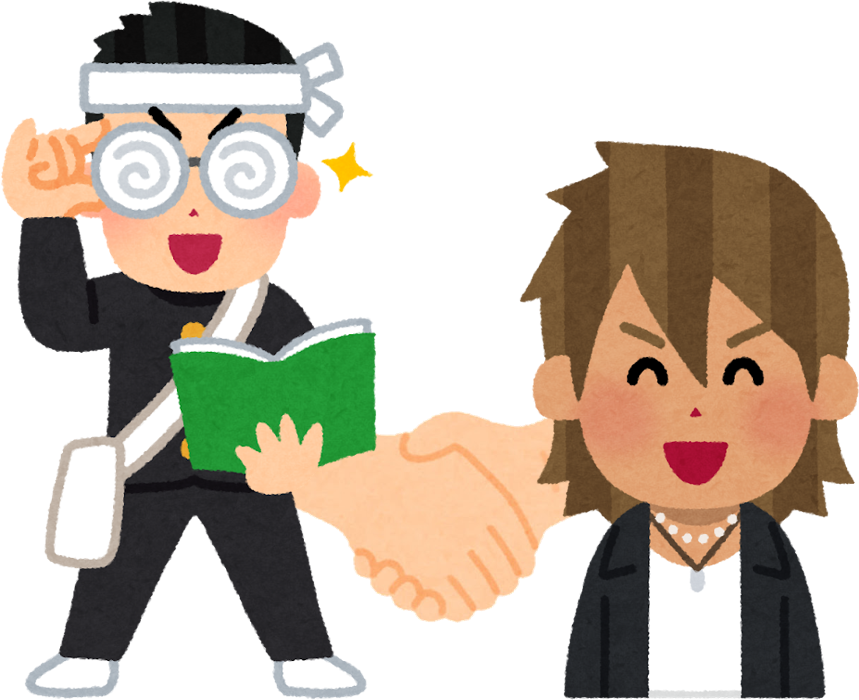
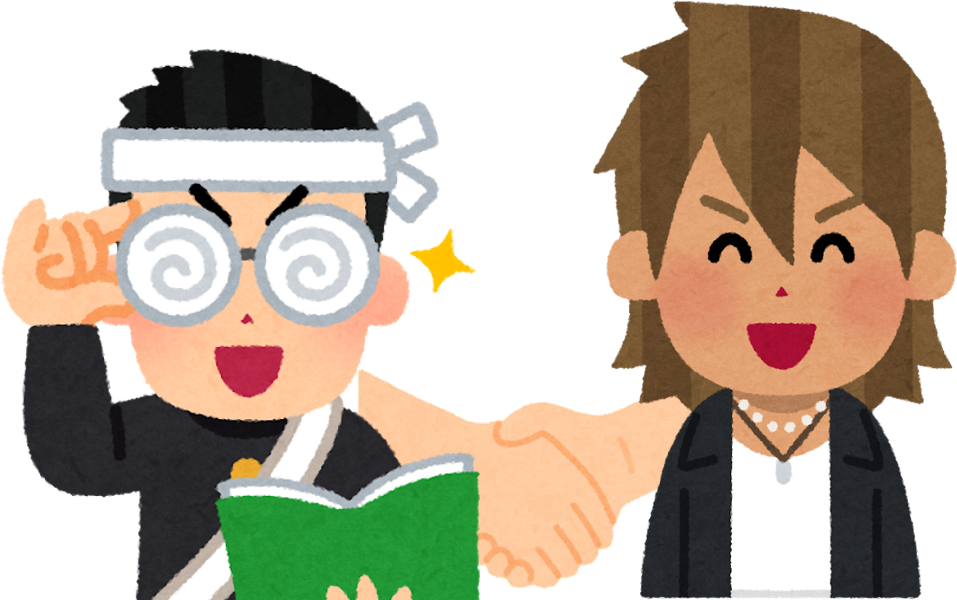
Happy Low-Code 10/26 資料：真面目くんを上半身にそろえる

diff --git a/talks/2026-10-26-happy-lowcode/index.html b/talks/2026-10-26-happy-lowcode/index.html
@@ -569,7 +569,7 @@
   <div class="meta">Happy Low-Code / Haru</div>
   <div class="pageno"></div>
 <div class="topright"><span class="side pad"><img src="assets/powerautomate.png" alt="">いまの話：PAD</span></div>
-<img class="mascot" src="assets/irasutoya/study_gariben_boy.png" alt="">
+<img class="mascot" src="assets/irasutoya/gariben_upper.png" alt="">
 <div class="nextbar">次へ ▶ <b>Computer use とは：AI が画面を見て、操作する</b></div>
 </section>
 <section class="slide withmascot" data-title="Computer use とは" data-note="<b>8:00</b> Computer use は、Copilot Studio のエージェントが使う道具の1つ。やりたいことを文章で頼むと、AI が画面を見て、その場でどこを押すかを考えて、クリックや入力をする。押す場所は指定しない。画面が変わっても、見て判断し直す。そのかわり、1手ごとに Copilot クレジットがかかる。標準のモデルで1手5クレジット。">
@@ -594,7 +594,7 @@
   <div style="font-size:2cqw;color:#9aa3b2;font-weight:800;margin-top:1cqh;position:relative;z-index:1">同じ仕事ができる2つ。でも性格はまったく違う。人にたとえると……</div>
   <div style="display:grid;grid-template-columns:1fr 6cqw 1fr;align-items:center;margin-top:2cqh;position:relative;z-index:1">
     <div style="display:flex;flex-direction:column;align-items:center;text-align:center">
-      <img src="assets/irasutoya/study_gariben_boy.png" alt="" style="height:44cqh;object-fit:contain">
+      <img src="assets/irasutoya/gariben_upper.png" alt="" style="height:44cqh;object-fit:contain">
       <div style="margin-top:1.6cqh;font-size:4.4cqw;font-weight:900;color:#4da3ff;letter-spacing:-.02em">PAD</div>
       <div style="font-size:2.3cqw;font-weight:800;color:#ffd23f;margin:.6cqh 0 1.2cqh">真面目すぎる人</div>
       <div style="font-size:2.3cqw;font-weight:800;color:#fff;line-height:1.5">決めた手順以外は、やらない</div><div style="font-size:2.3cqw;font-weight:800;color:#fff;line-height:1.5">1つでもズレたら、そこで止まる</div>
@@ -662,7 +662,7 @@
   <div class="meta">Happy Low-Code / Haru</div>
   <div class="pageno"></div>
 <div class="topright"><span class="demo" style="background:#e8891c">▶ デモ<span style="font-size:1.5cqw;font-weight:700">PAD を実行</span></span><span class="side pad"><img src="assets/powerautomate.png" alt="">いまの話：PAD</span></div>
-<img class="mascot" src="assets/irasutoya/study_gariben_boy.png" alt="">
+<img class="mascot" src="assets/irasutoya/gariben_upper.png" alt="">
 <div class="nextbar">次へ ▶ <b>Computer use：やりたいことを文章1つで頼む</b></div>
 </section>
 <section data-ch="1" data-sub="0" class="slide withmascot" data-title="Computer use：やりたいことを文章で頼む" data-note="<b>12:45</b> Computer use では、手順の欄にこの1文を書いただけ。部品の指定はしていない。どこを押すかは、AI が実行のときに画面を見て決める。動かす場所は、用意された仮想 PC の中のブラウザー。モデルは Claude Sonnet 4.5。">
@@ -971,7 +971,7 @@
   <div class="meta">Happy Low-Code / Haru</div>
   <div class="pageno"></div>
 <div class="topright"><span class="side pad"><img src="assets/powerautomate.png" alt="">いまの話：PAD</span></div>
-<img class="mascot" src="assets/irasutoya/study_gariben_boy.png" alt="">
+<img class="mascot" src="assets/irasutoya/gariben_upper.png" alt="">
 <div class="nextbar">次へ ▶ <b>師匠の Excel 表で、AI のつまずきは防げていた</b></div>
 </section>
 <section data-ch="4" data-sub="0" class="slide withmascot" data-title="師匠の Excel 表で、AI のつまずきは防げていた" data-note="<b>32:45</b> 師匠に言われたとおり、今日の作業を Excel に書くとこうなる。1行が1操作、クリック1つまで。入力する文字は PowerAutomate45 で、変えない。検索したら、開催前だけの2件が出ているかを確かめる。0件なら、ここで止める。日付を読んだら、PA45 の回かを確かめる。色を付けた4か所は、今日 AI がつまずいたところ。近道を手放した、検索語を変えた、回り続けた、別のイベントを並べた。4つとも、この表を書いた時点で防げていた。そしてこの表は、そのまま PAD のフローにもなるし、AI への指示にもなる。">
@@ -999,7 +999,7 @@
   <div class="meta">Happy Low-Code / Haru</div>
   <div class="pageno"></div>
 <div class="topright"><span class="side pad"><img src="assets/powerautomate.png" alt="">いまの話：PAD</span></div>
-<img class="mascot" src="assets/irasutoya/study_gariben_boy.png" alt="">
+<img class="mascot" src="assets/irasutoya/gariben_upper.png" alt="">
 <div class="nextbar">次へ ▶ <b>PAD は決めないと動かない</b></div>
 </section>
 <section data-ch="4" data-sub="0" class="slide" data-title="PAD は、決めないと動かない" data-note="<b>34:35</b> なぜ PAD でこの力が鍛えられるのか。PAD は、決めないと動かない。どこから始めるか、どの部品を押すか、何を入れるか、見つからなければどうするか。1つでもあいまいだと、作れないし、動かない。今回も、検索欄の住所があいまいだっただけで止まった。AI は逆。存在しない講座の名前を渡しても、あいまいなまま動いてしまう。だから、あいまいさに自分で気づけない。PAD は、あいまいさを許さないので、決めきる練習を毎回させてくれる。そして、止まるたびに、ここが変わると動かない、と分かって直す。作るたびにこれを繰り返すので、どこで止まりうるか、止まったらどうするか、を先に考える力、失敗の想像力が身につく。AI は止まらないので、AI に頼むときは、これを自分で想像して先に書いておくしかない。">
@@ -1082,7 +1082,7 @@
 <div class="nextbar">次へ ▶ <b>師匠の手順を、Computer use に渡したら</b></div>
 </section>
 <section data-ch="4" data-sub="0" class="slide blackout" data-title="師匠の手順を、Computer use に渡したら" data-note="<b>40:25</b> （間を取る）師匠の手順を、Computer use に渡したら、ちゃんとできた。PAD で鍛えた、業務を決めきって言葉にする力は、そのまま AI を動かす力になる。">
-  <img class="bo-fig" src="assets/irasutoya/duo_akusyu.png" alt="" style="height:66cqh;right:3cqw;bottom:13cqh;filter:drop-shadow(.3cqw .3cqw 0 #fff) drop-shadow(-.3cqw .3cqw 0 #fff) drop-shadow(.3cqw -.3cqw 0 #fff) drop-shadow(-.3cqw -.3cqw 0 #fff)">
+  <img class="bo-fig" src="assets/irasutoya/duo_akusyu.png" alt="" style="height:auto;width:40cqw;right:3cqw;bottom:18cqh;filter:drop-shadow(.3cqw .3cqw 0 #fff) drop-shadow(-.3cqw .3cqw 0 #fff) drop-shadow(.3cqw -.3cqw 0 #fff) drop-shadow(-.3cqw -.3cqw 0 #fff)">
   <div class="bo-txt" style="max-width:52cqw">
     <div class="bo-small">つまり</div>
     <div style="font-size:3.2cqw;font-weight:900;color:#fff;line-height:1.45;margin-top:1.6cqh">師匠の手順を、<br>Computer use に渡したら…</div>
